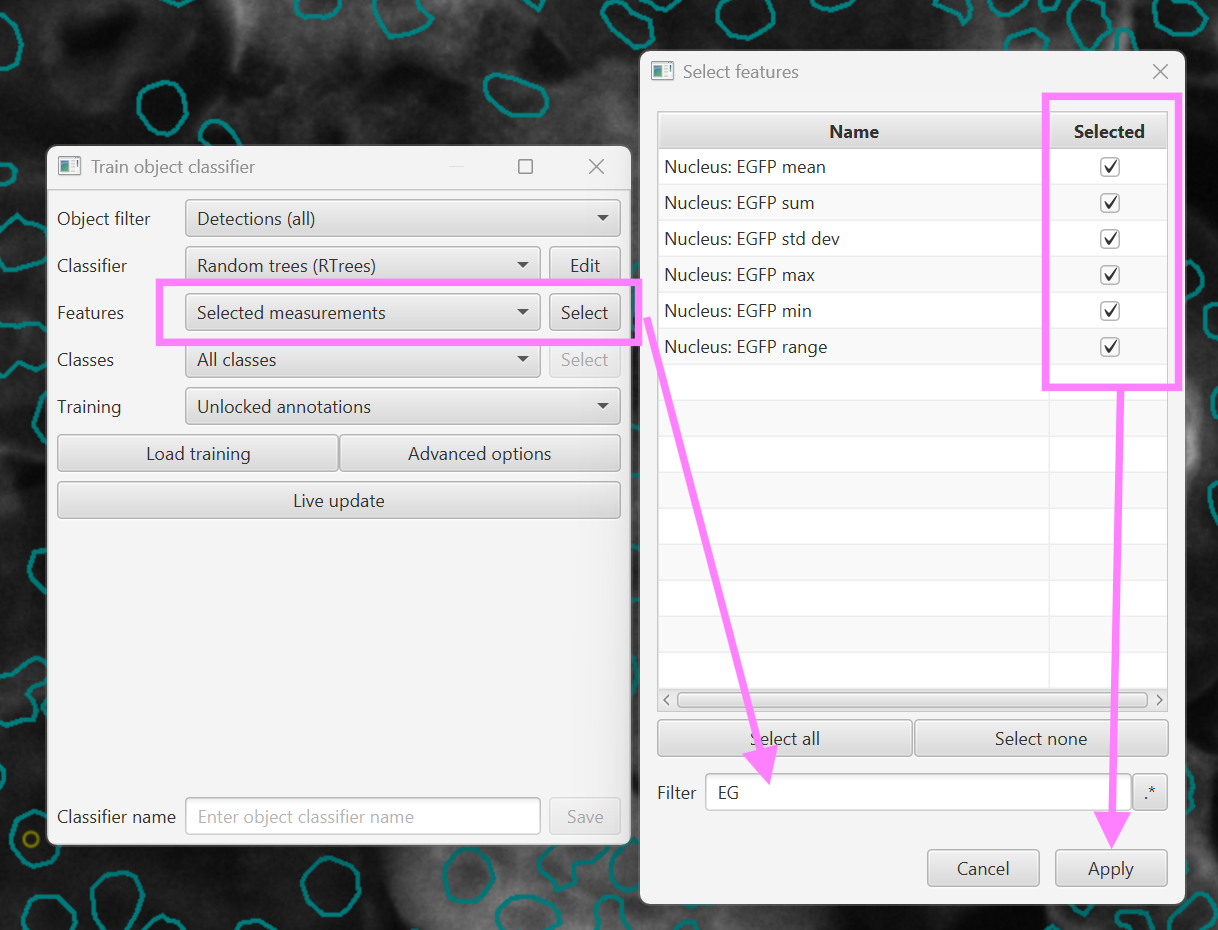
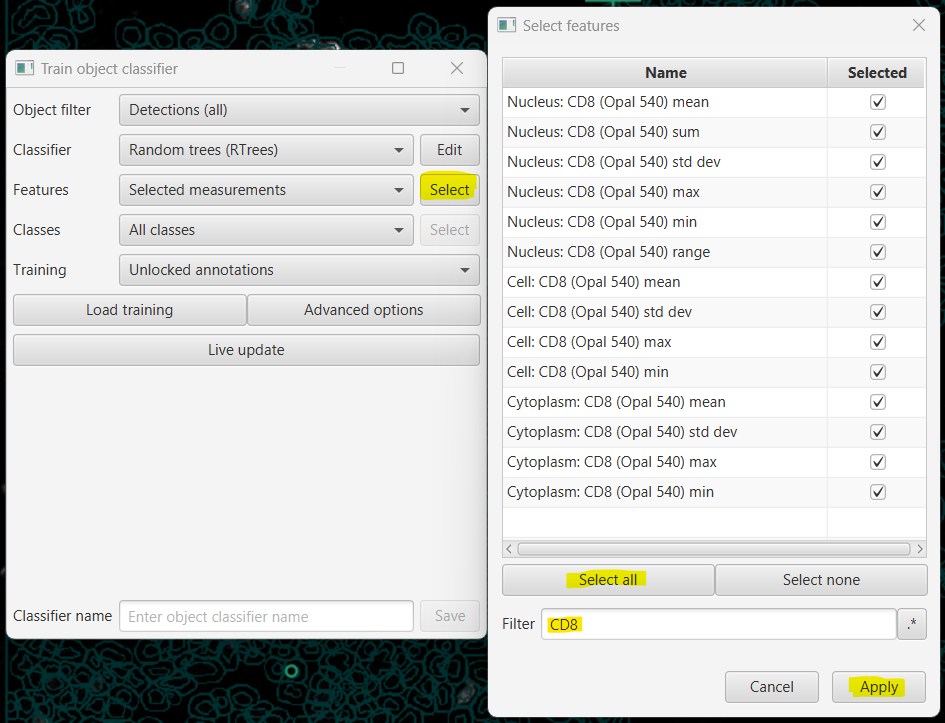
deleted pngs not relevant to this course

diff --git a/Tutorials/02_Builtin_Tools.md b/Tutorials/02_Builtin_Tools.md
@@ -22,6 +22,8 @@ Try using the wand or brush tool to edit the shape of the rectangle. To add, lef
 
 Delete the edited shape and add in a new 1024x1024 rectangle. Select the object in the annotation tab, right click and select `Lock`. This prevents an annotation from being accidentally edited or moved. It also allows for adding separate annotations inside.
 
+*QuPath does not automatically save progress, be sure to save the project after tasks like object creation to prevent loss of time and effort.*
+
 ## Cell Detection
 
 Open `Cell Detection`.
@@ -48,27 +50,27 @@ Using the same objects above, we will create a set of object classifiers to clas
 
 ### Train an Object Classifier
 
-Before we train the object classifier, we need to mark some examples of positive and negative cells for the two markers. We will start with CD8 and then repeat the same process for FoxP3. In the annotations tab, there is a class list for the project. Add two new classes named "CD8+" and "CD8-" by clicking the plus button to the right of `Class List`.
+Before we train the object classifier, we need to mark some examples of positive and negative cells for the two markers. We will start with CD8 and then repeat the same process for FoxP3. In the annotations tab, there is a class list for the project. Add two new classes named "CD8+" and "CD8-" by clicking the plus button to the right of `Class List`. Colors for classes can be changed by clicking on the color square next to the name. Class visibility can be toggled by clicking the eye button.
+
+![classes](/Tutorials/PNGs/Class_List.png)
+
+Using the points tool (`.`) create two sets of points and set the class of one set to `CD8+` and the other to `CD8-`. Add new point sets with `Add` and set the class by right clicking on the object entry.
+
+![classes](/Tutorials/PNGs/Points_Annotations.png)
+
+The name of the annotation can also be changed by right clicking the object in the annotations tab and selecting `Set Properties`. Sometimes changing the names of objects can help with organizing data and keeping track of objects.
+
+Using the brightness and contrast menu, change the channel visibility so only CD8 is on (can turn off all other channels or use the view grayscale option which is my preferred method).
+
+With the points tool active, select the `CD8+` point set and left click on cell detections that are examples of CD8+. Then repeat the process for cells that are CD8- (be sure to select the `CD8-` point set). Try to give examples of the variability of CD8+ cells to help the classifier become more robust to natural biological variability. You should end up with something similar to this:
+
+![Points Example](/Tutorials/PNGs/Points_Example.png)
+
+*Tip: Individual points can be moved by left click and drag, and removed by using  `Alt + Left Click`*
+
+Open `Train Object Classifier`. Change the Feature parameters from `All Measurements` to `Selected Measurements`. Click select and search for CD8 in the new window. Click `Select all` and then click apply. This only selects the results from the search.
 
 
-
-Using the points tool (`.`) create two sets of points, one 
-
-<img src="/Tutorials/PNGs/Points_Annotations.png" width="372" height="379"><br>
-
-Then set the class of one points annotation to Positive and the other to Negative.
-
-<img src="/Tutorials/PNGs/Setting_Class_of_Annotations.png" width="294" height="378"><br>
-
-Using the brightness and contrast menu, turn off the DAPI and AF568 channel so that only the EGFP channel is visible. This will make finding positive and negative examples easier.
-
-Using the Positive and Negative Points Annotations, mark examples of cells positive and negative for EGFP. Aim to have roughly equal numbers of examples.
-
-<img src="/Tutorials/PNGs/PositiveNegative_Examples.png" width="766" height="425"><br>
-
-Open the Object classifier (Classify > Object Classification > Train Object Classifier) and then change the Feature parameters from `All Measurements` to `Selected Measurements`. Click select and search for EGFP in the new window. Select all of the EGFP related measurements and then click apply.
-
-<img src="/Tutorials/PNGs/Object_Classifier_Settings.png" width="406" height="310"><br>
 
 In the Training option, change it from `Unlocked annotations` to `Points only`. 
 